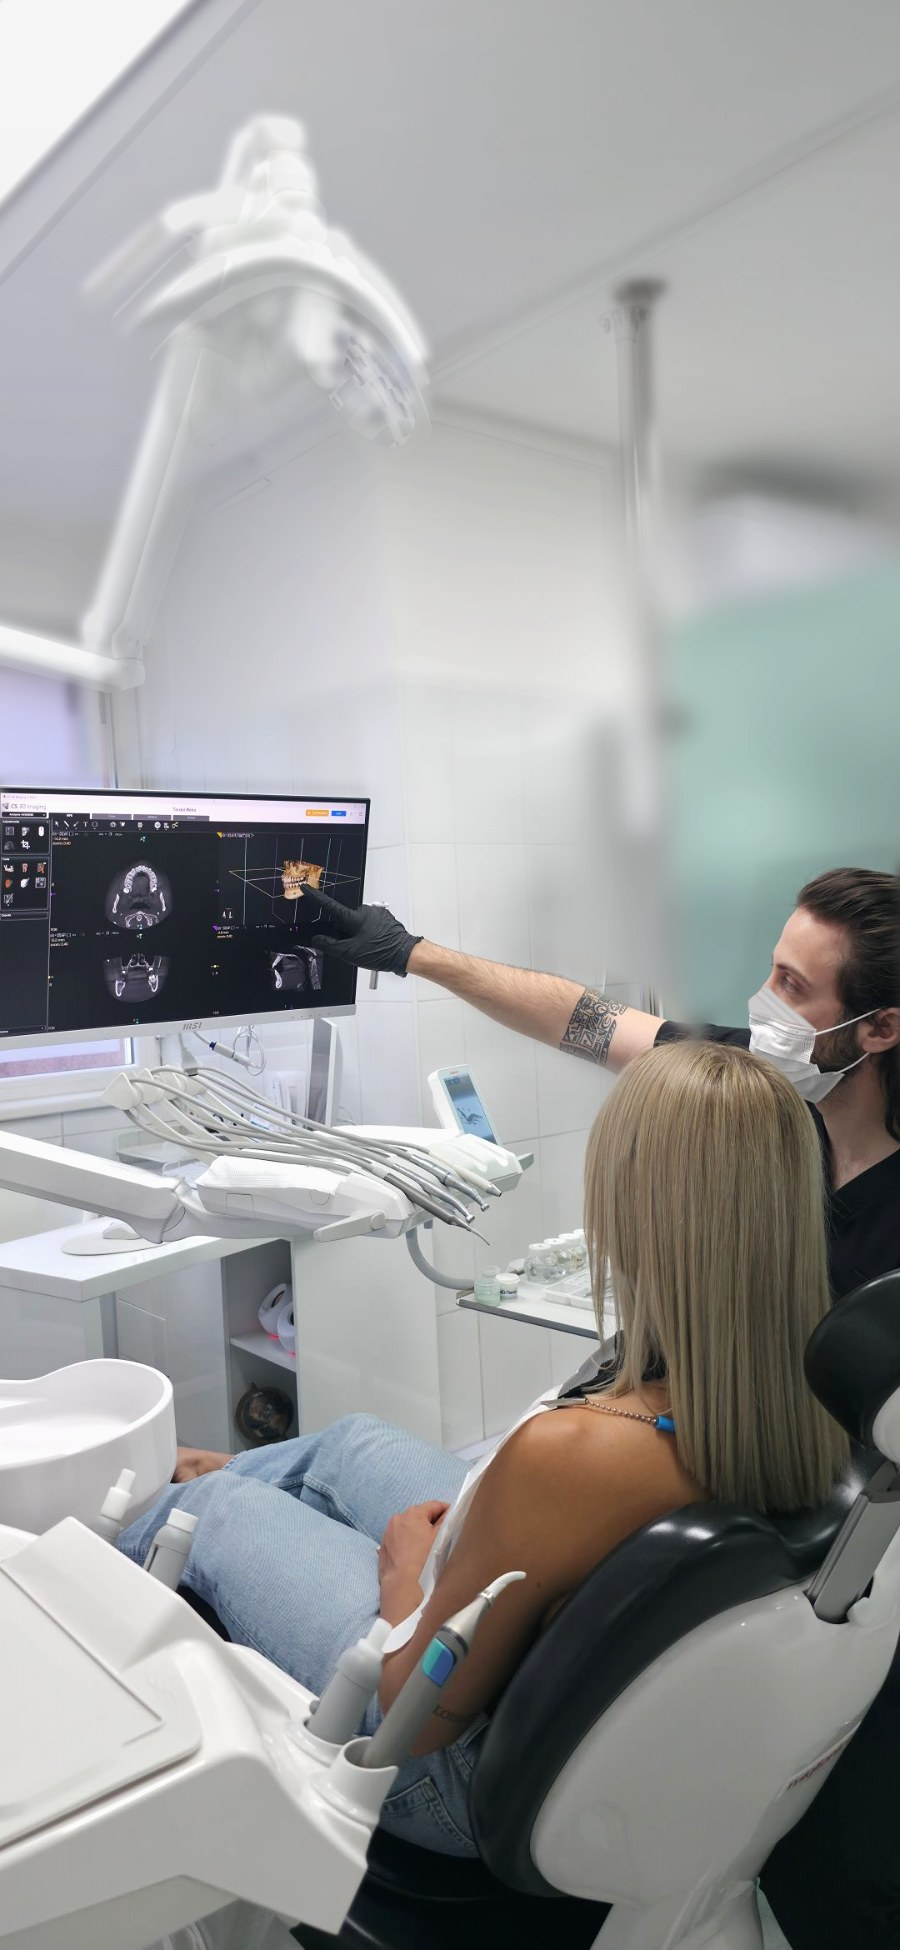
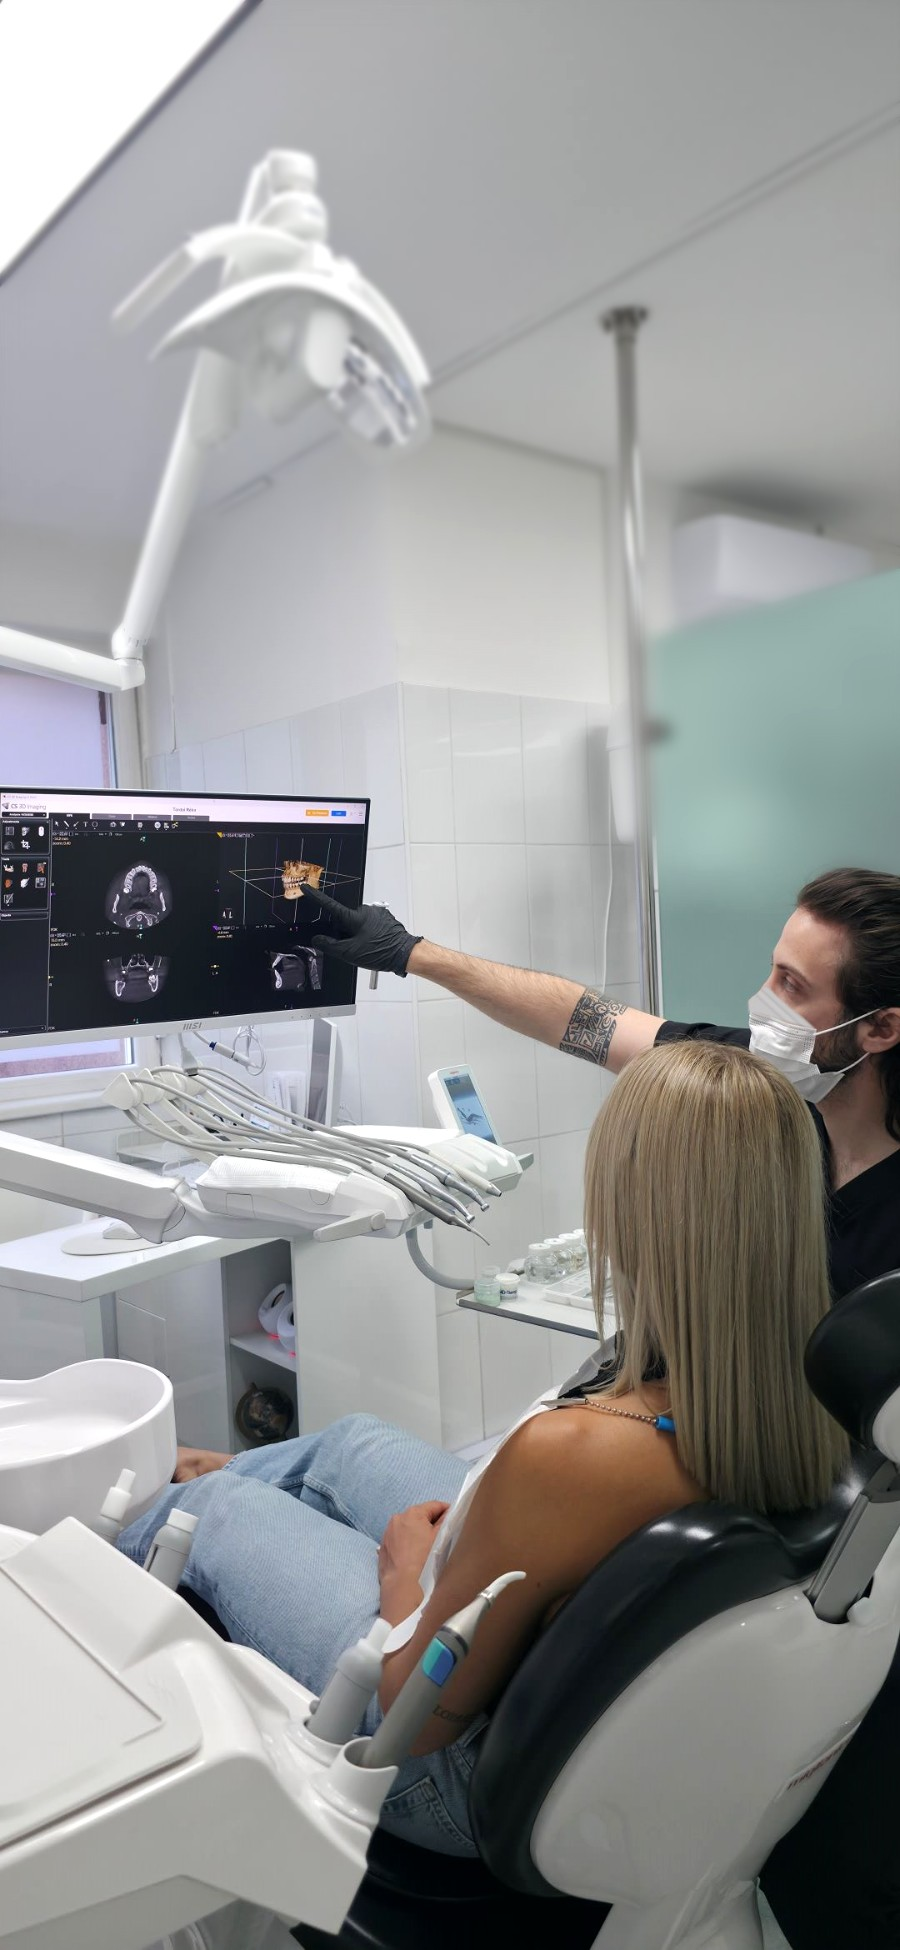
Brighten waiting room photo and lighten blur on doctor/patient photo

diff --git a/gallery.html b/gallery.html
@@ -72,7 +72,7 @@
         <img draggable="false" src="assets/instagram/2-900.jpg" alt="A The Dentalist korszerű, világos fogászati kezelőhelyisége" width="900" height="675" loading="lazy" decoding="async">
       </div>
       <div class="gallery-item">
-        <img draggable="false" src="assets/instagram/3-900.jpg" alt="Modern fogászati kezelőhelyiség professzionális berendezésekkel" width="900" height="1200" loading="lazy" decoding="async">
+        <img draggable="false" src="assets/instagram/3-clean.jpg" alt="Modern fogászati kezelőhelyiség professzionális berendezésekkel" width="900" height="1200" loading="lazy" decoding="async">
       </div>
       <div class="gallery-item">
         <img draggable="false" src="assets/instagram/4-900.jpg" alt="Fogászati képalkotó berendezés a rendelőben" width="900" height="1200" loading="lazy" decoding="async">

diff --git a/en/gallery.html b/en/gallery.html
@@ -72,7 +72,7 @@
         <img draggable="false" src="../assets/instagram/2-900.jpg" alt="Bright, modern treatment room at The Dentalist" width="900" height="675" loading="lazy" decoding="async">
       </div>
       <div class="gallery-item">
-        <img draggable="false" src="../assets/instagram/3-900.jpg" alt="Modern dental treatment room with professional equipment" width="900" height="1200" loading="lazy" decoding="async">
+        <img draggable="false" src="../assets/instagram/3-clean.jpg" alt="Modern dental treatment room with professional equipment" width="900" height="1200" loading="lazy" decoding="async">
       </div>
       <div class="gallery-item">
         <img draggable="false" src="../assets/instagram/4-900.jpg" alt="Dental imaging equipment in the clinic" width="900" height="1200" loading="lazy" decoding="async">
